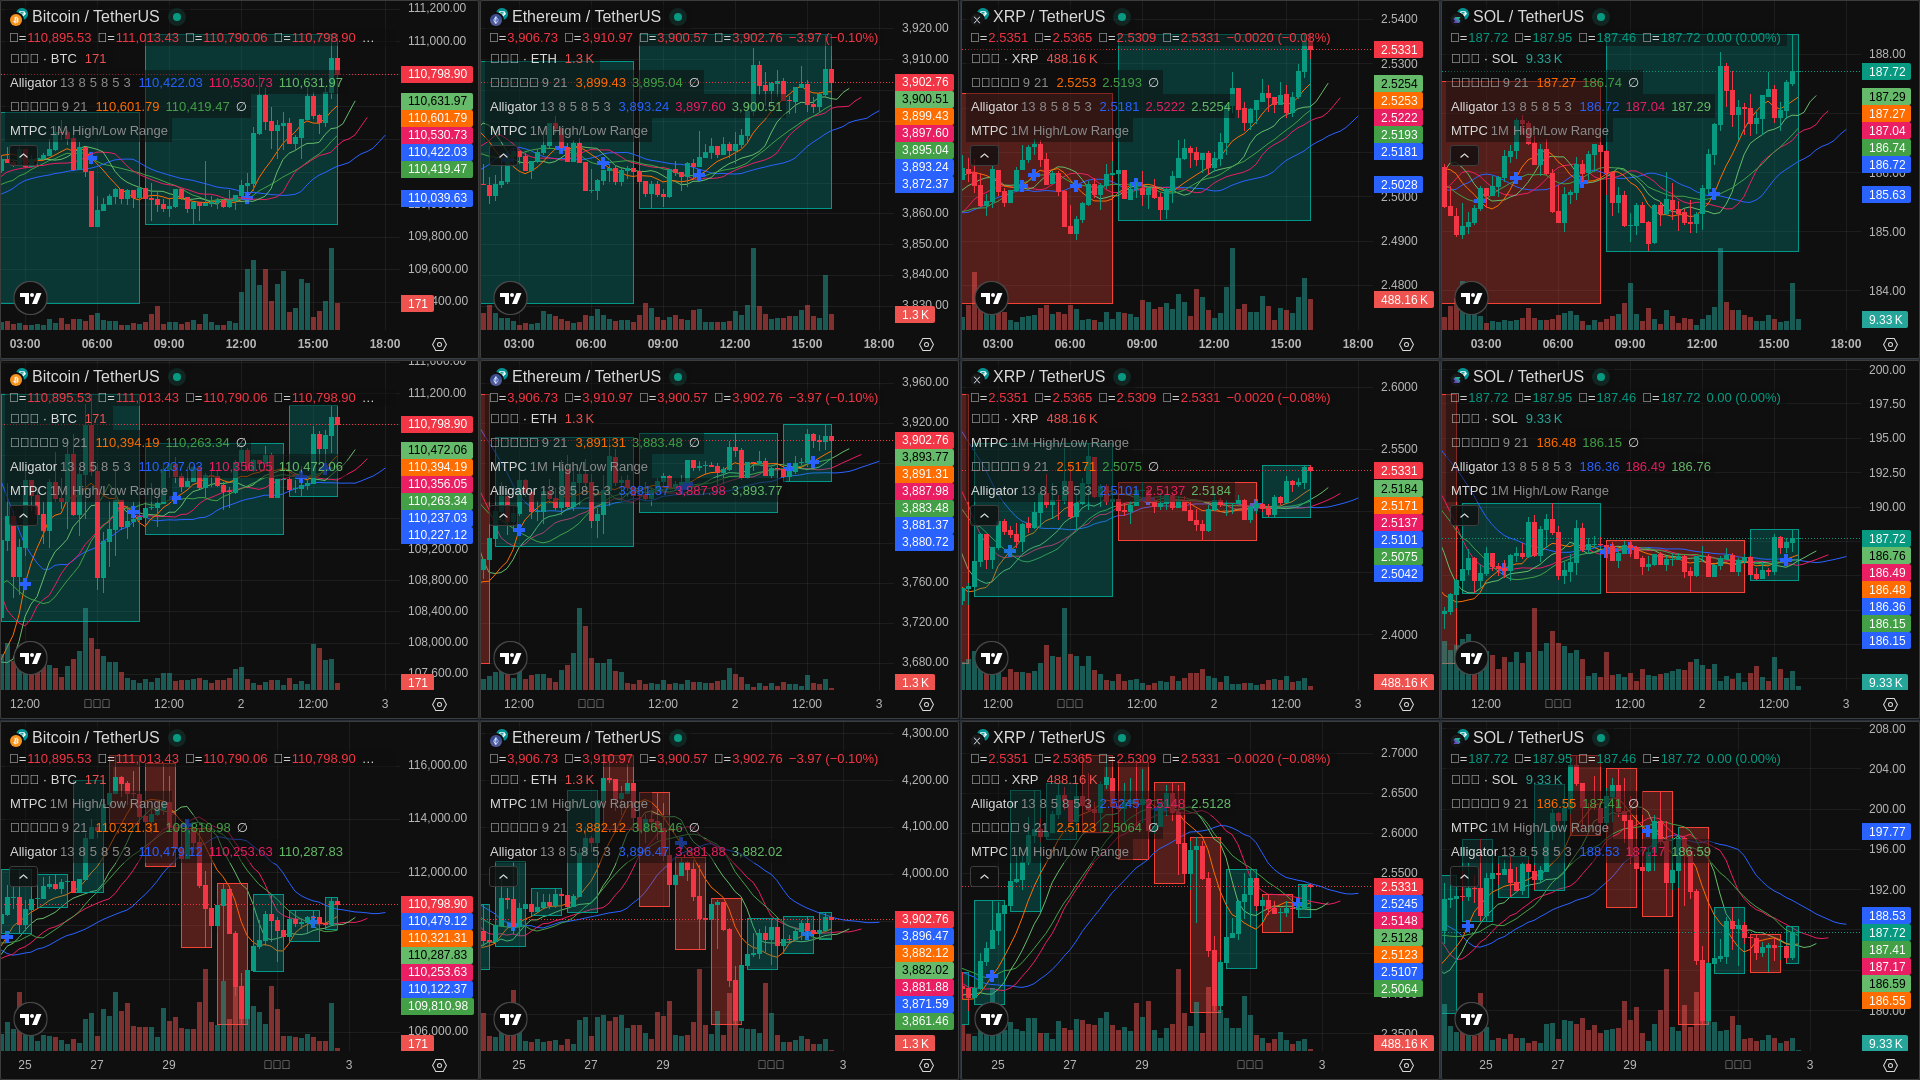
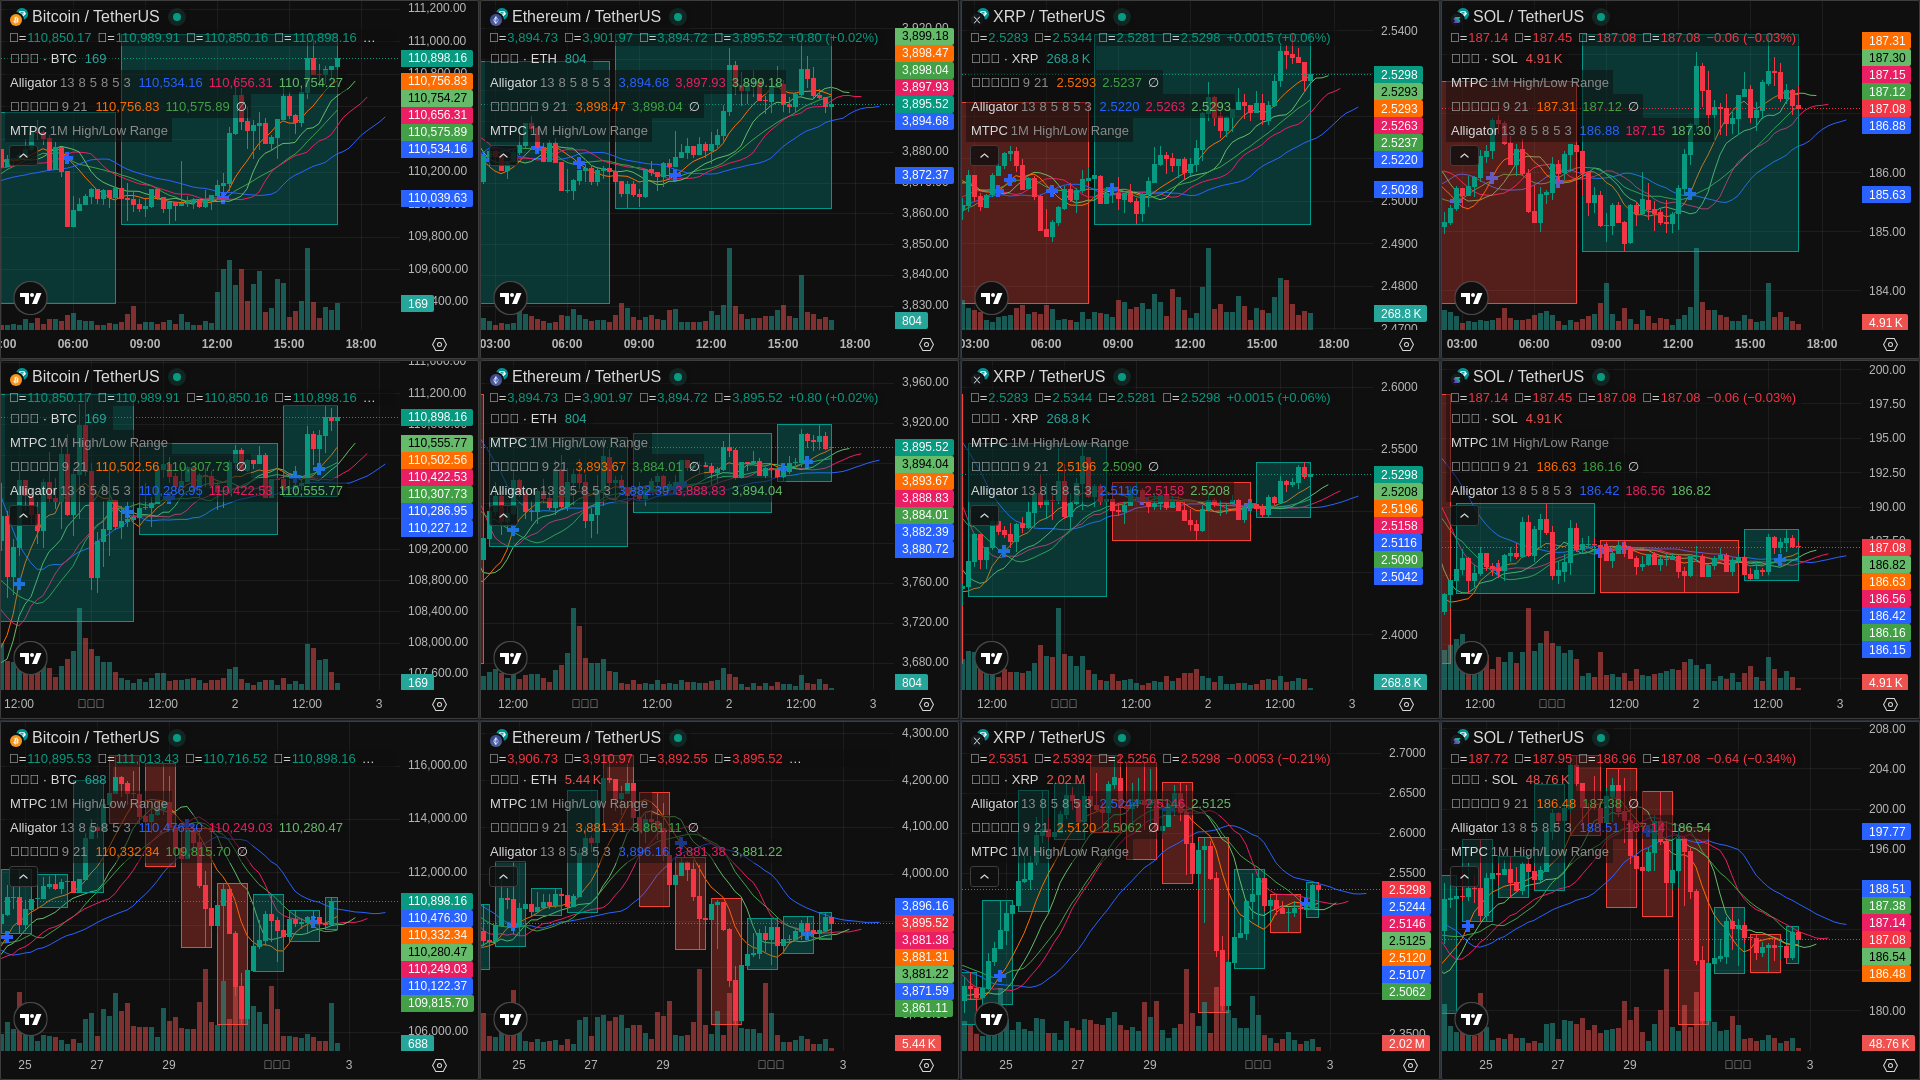
Update crypto watch screenshots 2025-11-02 09:11 UTC

diff --git a/screenshots/index.html b/screenshots/index.html
@@ -60,8 +60,8 @@
     <div class="container">
         <h1>Crypto Watch - 最新截圖</h1>
         <div class="timestamp">
-            最後更新時間: 2025/11/2 下午4:11:54 (台北時間)<br>
-            UTC 時間: 2025-11-02 08:11:54
+            最後更新時間: 2025/11/2 下午5:10:58 (台北時間)<br>
+            UTC 時間: 2025-11-02 09:10:58
         </div>
         
         <div class="screenshot-section">
